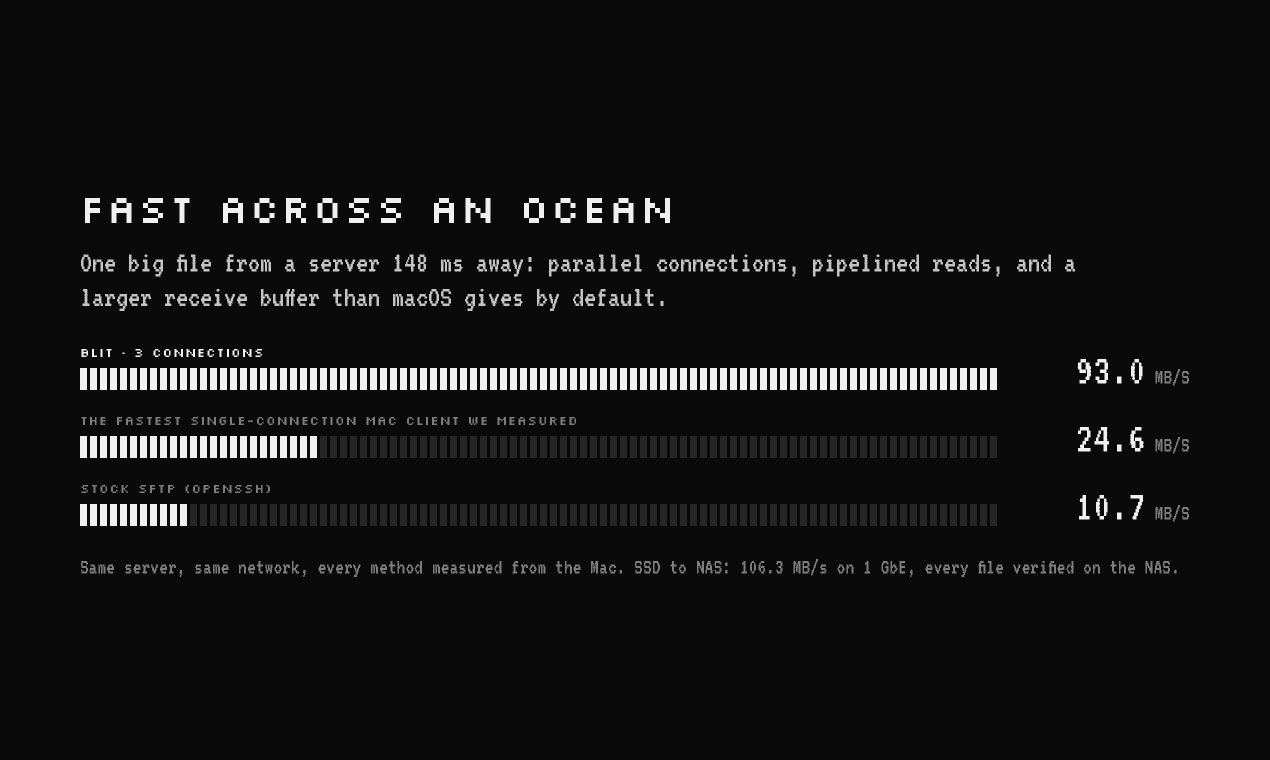
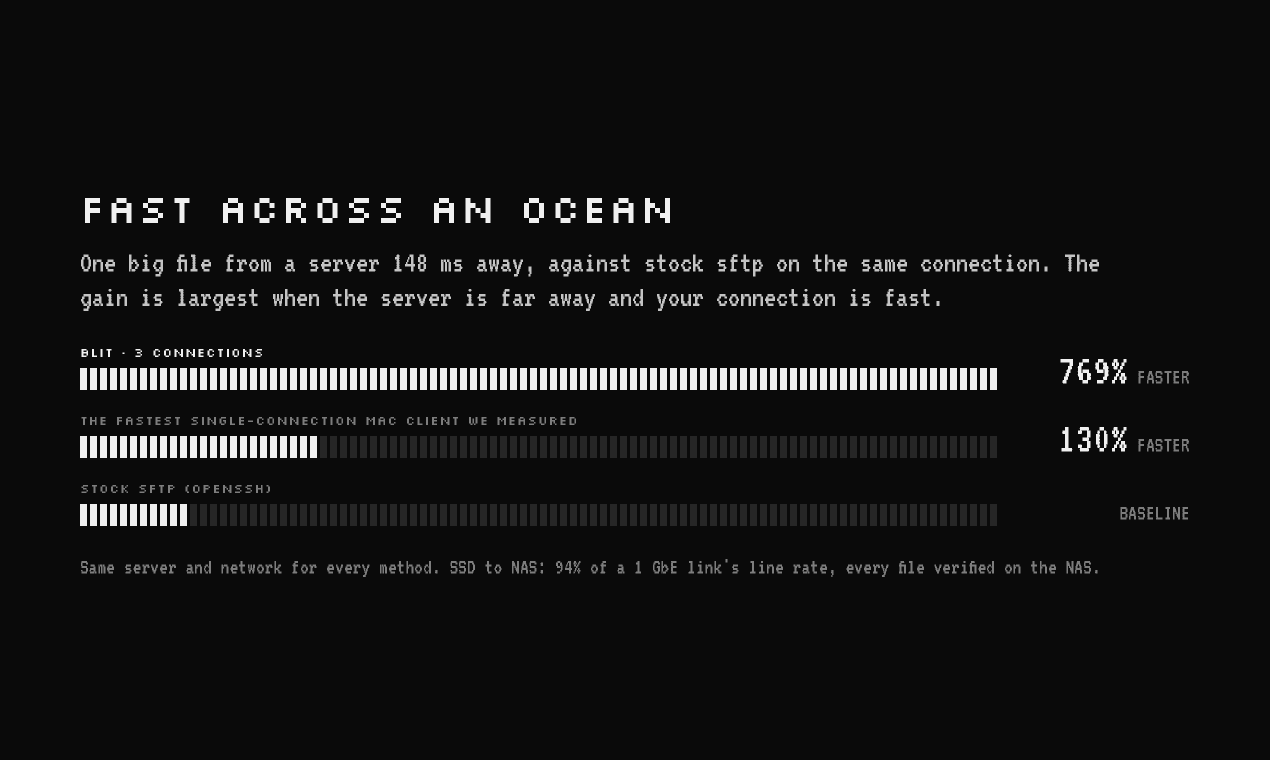
Product Hunt: speeds as percentages, with the condition they hold under
A speed in MB/s depends on the reader's connection; a percentage against
other methods on the same connection carries over, as long as the server is
far away and the connection fast, which the copy now says. The description
(252 characters), the maker's comment (up to 278% faster than the fastest
Mac app measured, up to 769% faster than stock sftp) and the speed image
(769% faster, 130% faster, the baseline; bars still in proportion to the
measured speeds) say so; SSD to NAS is 94% of line rate.

diff --git a/scripts/brand/blit-ph.html b/scripts/brand/blit-ph.html
@@ -115,10 +115,10 @@ body.thumb { width: 240px; height: 240px; }
 <section class="shot" id="speed">
   <div>
     <h2>Fast across an ocean</h2>
-    <p class="sub">One big file from a server 148 ms away: parallel connections, pipelined reads, and a larger receive buffer than macOS gives by default.</p>
+    <p class="sub">One big file from a server 148 ms away, against stock sftp on the same connection. The gain is largest when the server is far away and your connection is fast.</p>
   </div>
   <div class="bars" data-bars></div>
-  <p class="note">Same server, same network, every method measured from the Mac. SSD to NAS: 106.3 MB/s on 1 GbE, every file verified on the NAS.</p>
+  <p class="note">Same server and network for every method. SSD to NAS: 94% of a 1 GbE link's line rate, every file verified on the NAS.</p>
 </section>
 
 <section class="shot" id="watch">
@@ -208,14 +208,16 @@ for (const el of document.querySelectorAll("[data-lines]")) {
 }
 
 // Speed: the site's measurements (site/index.html, section 02).
+// Bars in proportion to the measured speeds (93.0, 24.6 and 10.7 MB/s); the labels say how much
+// faster than stock sftp, since a speed in MB/s depends on the reader's connection.
 const BARS = [
-  ["Blit · 3 connections", 93.0, true],
-  ["The fastest single-connection Mac client we measured", 24.6, false],
-  ["Stock sftp (OpenSSH)", 10.7, false],
+  ["Blit · 3 connections", 93.0, true, "769%", "FASTER"],
+  ["The fastest single-connection Mac client we measured", 24.6, false, "130%", "FASTER"],
+  ["Stock sftp (OpenSSH)", 10.7, false, "", "BASELINE"],
 ];
 const barsEl = document.querySelector("[data-bars]");
-if (barsEl) barsEl.innerHTML = BARS.map(([name, v, us]) =>
-  `<div class="bar${us ? " us" : ""}"><span class="name">${esc(name)}</span><span class="v">${v.toFixed(1)}<small> MB/S</small></span>` +
+if (barsEl) barsEl.innerHTML = BARS.map(([name, v, us, gain, word]) =>
+  `<div class="bar${us ? " us" : ""}"><span class="name">${esc(name)}</span><span class="v">${gain}<small> ${word}</small></span>` +
   `<span class="cells" data-fraction="${v / 93.0}"></span></div>`).join("");
 
 // New downloads: a server folder with qBittorrent's status beside each item (R2.25).

diff --git a/launch/product-hunt.md b/launch/product-hunt.md
@@ -3,8 +3,10 @@
 Everything the submission form asks for, ready to paste, as Rune's (Rune's `launch/product-hunt.md`).
 Written plainly: what Blit does, said literally. The images are in `launch/product-hunt/`, made by
 `scripts/make-brand.sh`: the first from `scripts/brand/blit-brand.html#ph`, the rest from
-`scripts/brand/blit-ph.html`. The speeds are the site's (section 02); if the benchmarks are rerun,
-change them there, in the speed image and in the comment below.
+`scripts/brand/blit-ph.html`. Speeds are given as percentages, measured against other methods on the
+same connection (the site's section 02): a speed in MB/s depends on the reader's connection. The gain
+is largest from a distant server on a fast connection, and the copy says so. If the benchmarks are
+rerun, change the numbers on the site, in the speed image and in the comment below.
 
 ## The form
 
@@ -25,9 +27,9 @@ says how it's checked.
 
 **Description** (260 at most; this is the length shown in previews)
 
-> Blit is a native Mac app for moving big files between SFTP servers, external drives and NAS shares. It checks every file by SHA-256 at its destination, runs at up to 8.7× the speed of stock sftp, and fetches new downloads from your server as they finish.
+> Blit is a native Mac app for moving big files between SFTP servers, external drives and NAS shares. It checks every file by SHA-256 at its destination, is up to 769% faster than stock sftp from distant servers, and fetches new downloads as they finish.
 
-(254 characters.)
+(252 characters.)
 
 **Links:** https://blit.banast.as
 
@@ -40,16 +42,16 @@ says how it's checked.
 **Gallery** (1270×760, in this order; the first is also the preview when the page is shared):
 1. `1-blit-1270x760.png`: the icon, name and tagline, and the transfer HUD mid-download (74.2 MB/s, 17 of 26 files verified).
 2. `2-verified-1270x760.png`: SHA-256 on the server while downloading, with a mismatch caught and retried, and `sha256sum` on the NAS while copying.
-3. `3-speed-1270x760.png`: one big file from a server 148 ms away: Blit 93.0 MB/s, the fastest single-connection Mac client measured 24.6, stock sftp 10.7.
+3. `3-speed-1270x760.png`: one big file from a server 148 ms away, against stock sftp on the same connection: Blit 769% faster, the fastest single-connection Mac client measured 130% faster.
 4. `4-new-downloads-1270x760.png`: a watched server folder with qBittorrent's status beside each item, and a download's notification with its still, Quick Look and Rename. The names are freely shared downloads (Linux ISOs, Blender's open movies).
 
 **Makers:** you. **Hunter:** you, or someone else willing to post it.
 
 ## The maker's first comment
 
-> My work depends on moving large files between servers in other countries and my own drives, and production waits until they arrive. I used Transmit and ForkLift for years, and they're good apps, but in my measurements they moved a big file from a distant server over one connection at 10 to 25 MB/s. Blit started with one question: could those files move faster?
+> My work depends on moving large files between servers in other countries and my own drives, and production waits until they arrive. I used Transmit and ForkLift for years, and they're good apps, but they move a big file over one connection, and over a long distance one connection can't use a fast line. Blit started with one question: could those files move faster?
 >
-> They can. From a server 148 ms away, Blit downloads one big file at 93 MB/s, where stock sftp manages 10.7, and it checks every file it moves.
+> They can. From a server 148 ms away, Blit downloads a big file up to 278% faster than the fastest Mac app I measured, and up to 769% faster than stock sftp, and it checks every file it moves. The gain is largest when the server is far away and your connection is fast.
 >
 > - Each file is split across 3 connections, and transfers resume after a dropped connection, sleep or a quit.
 > - Every file is checked by SHA-256 at its destination. The server computes its own hash, and copies to a NAS are checked by running `sha256sum` on the NAS, so the check reads the NAS's disk, not the Mac's cache. A file gets its real name only after the hashes match.
@@ -61,9 +63,9 @@ says how it's checked.
 > I'd like to hear from anyone who moves big files over long distances: what's missing, and which servers cause it problems.
 
 The story is production work: large files between servers abroad and your own drives. It doesn't
-describe what the files are or where they come from. The 10 to 25 MB/s for Transmit and ForkLift is
-from your own measurements (the site's comparison is "the fastest single-connection Mac client we
-measured", 24.6 MB/s); the site itself still names no competitors.
+describe what the files are or where they come from. No speed is given for Transmit or ForkLift by
+name; the comparison is with "the fastest Mac app I measured",
+as the site's "the fastest single-connection Mac client we measured". The site names no competitors.
 
 ## Before and on the day
 
